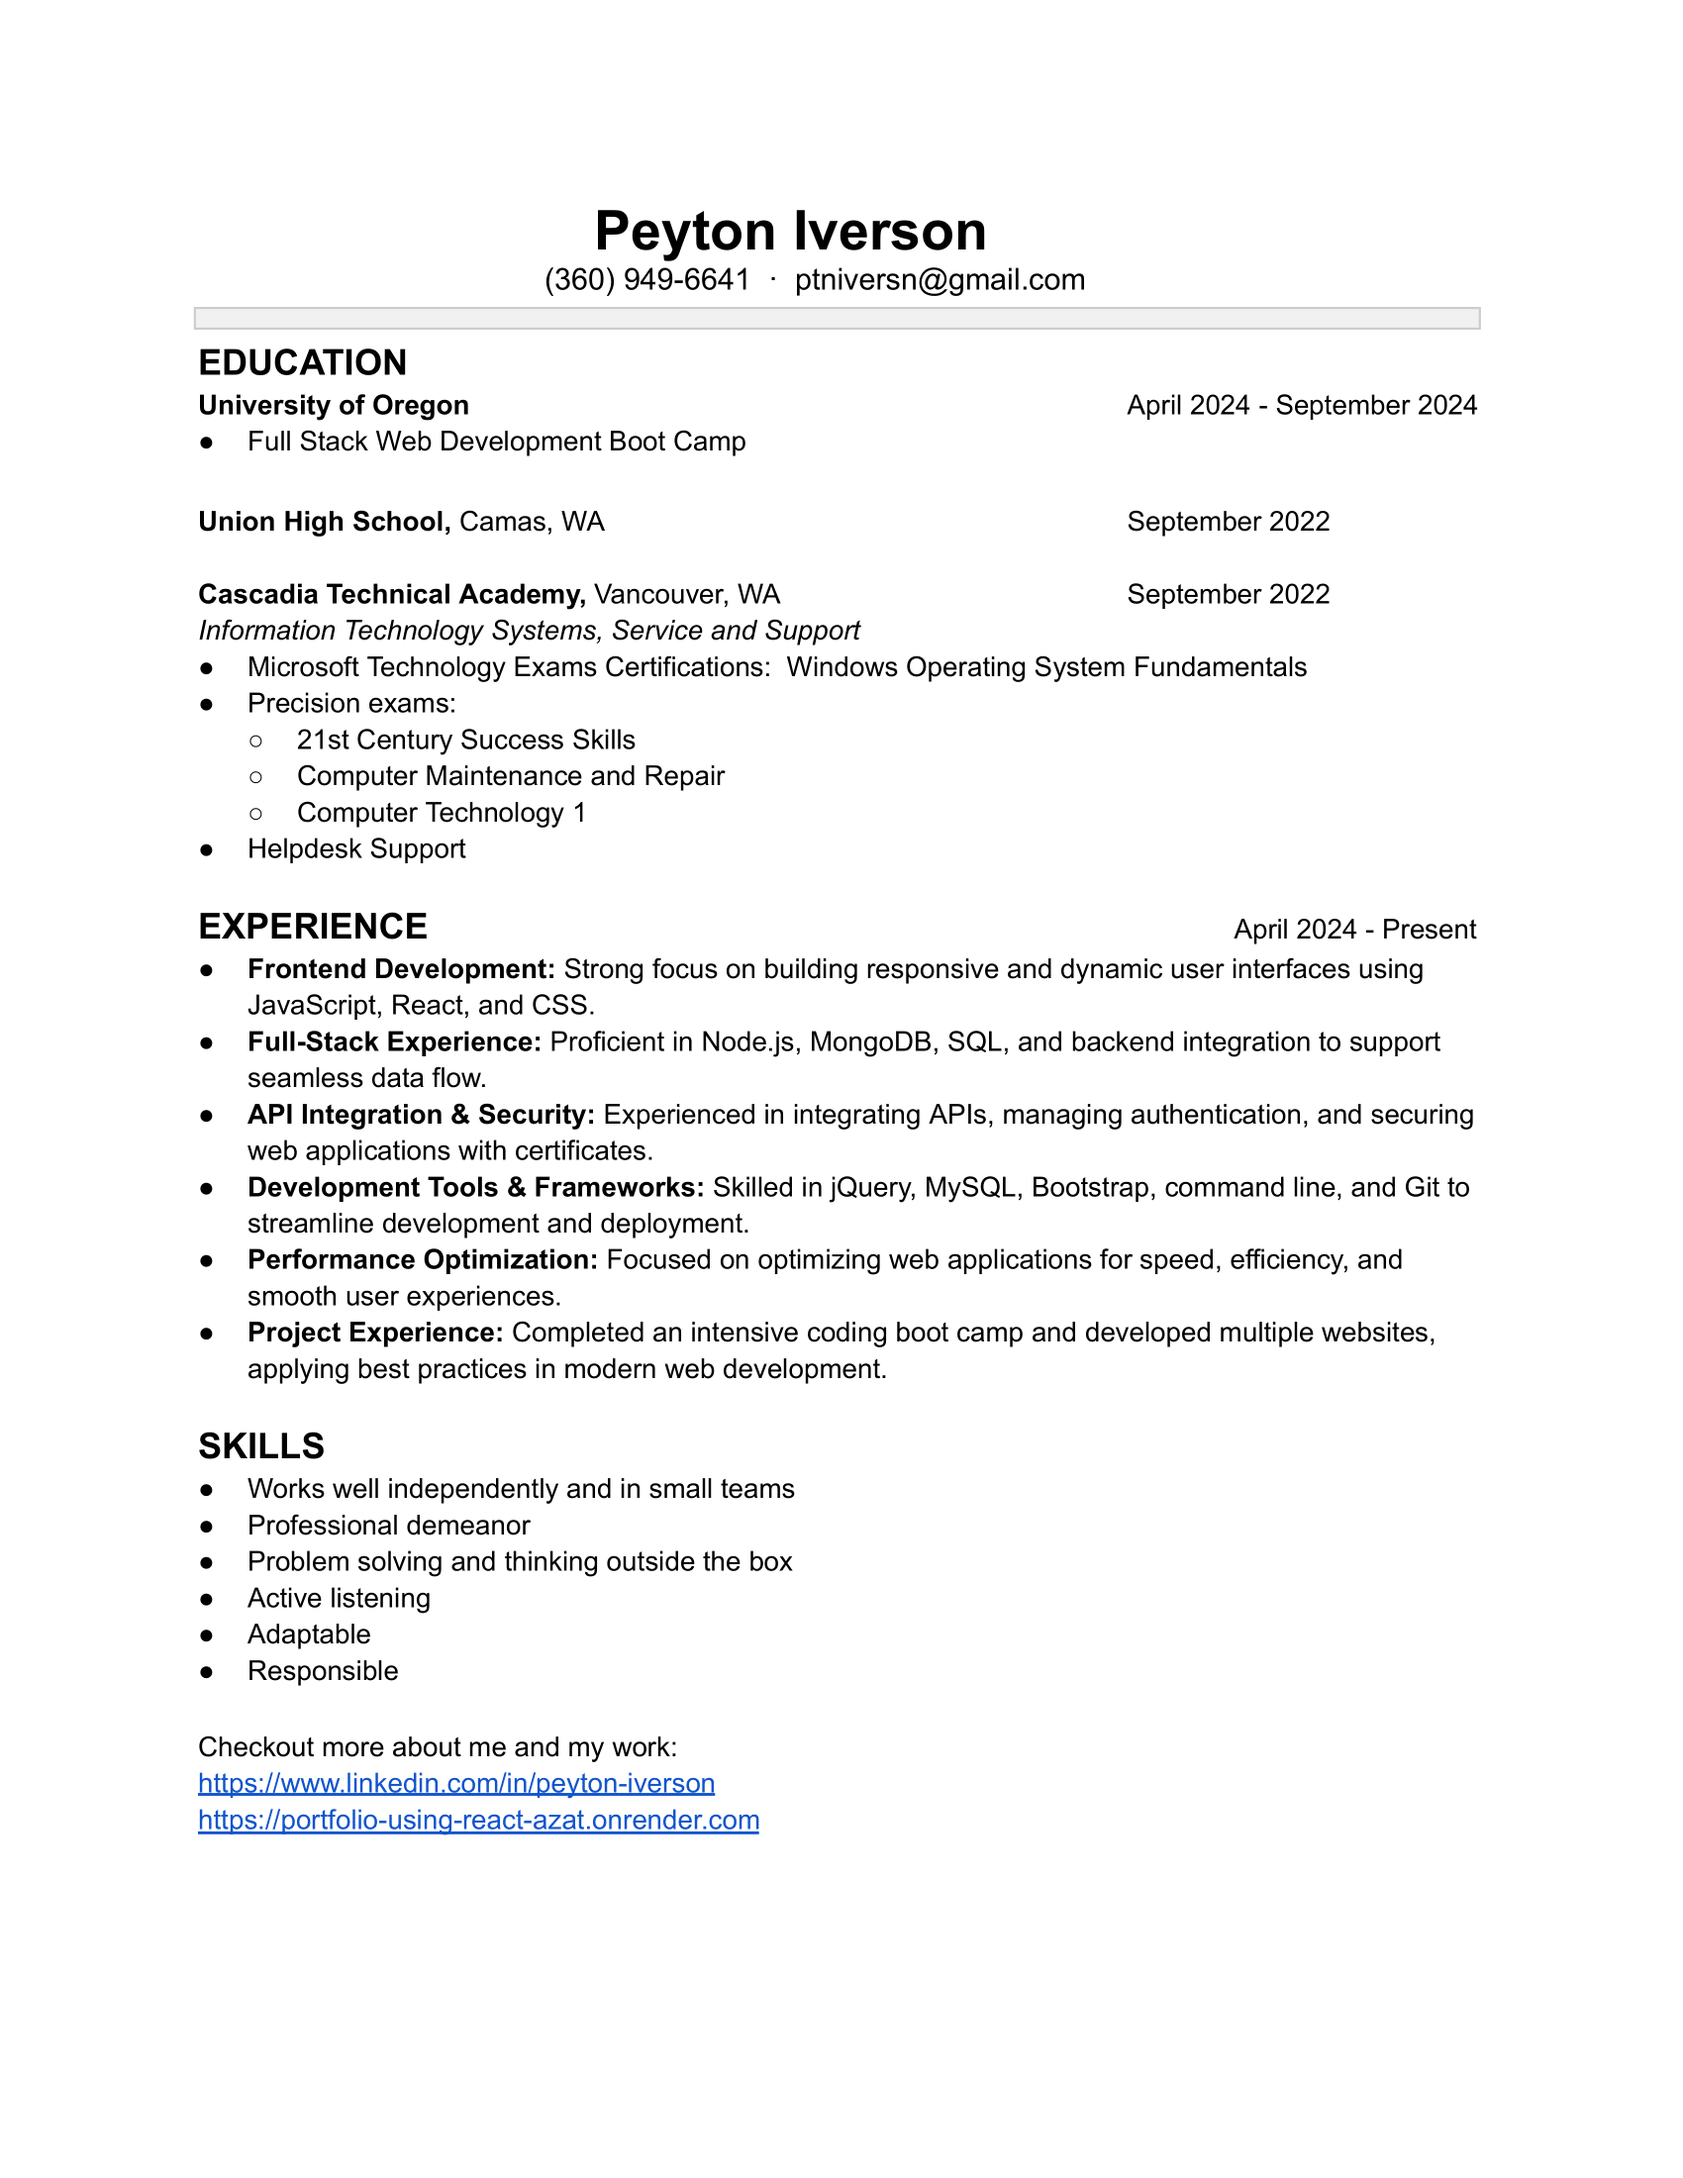
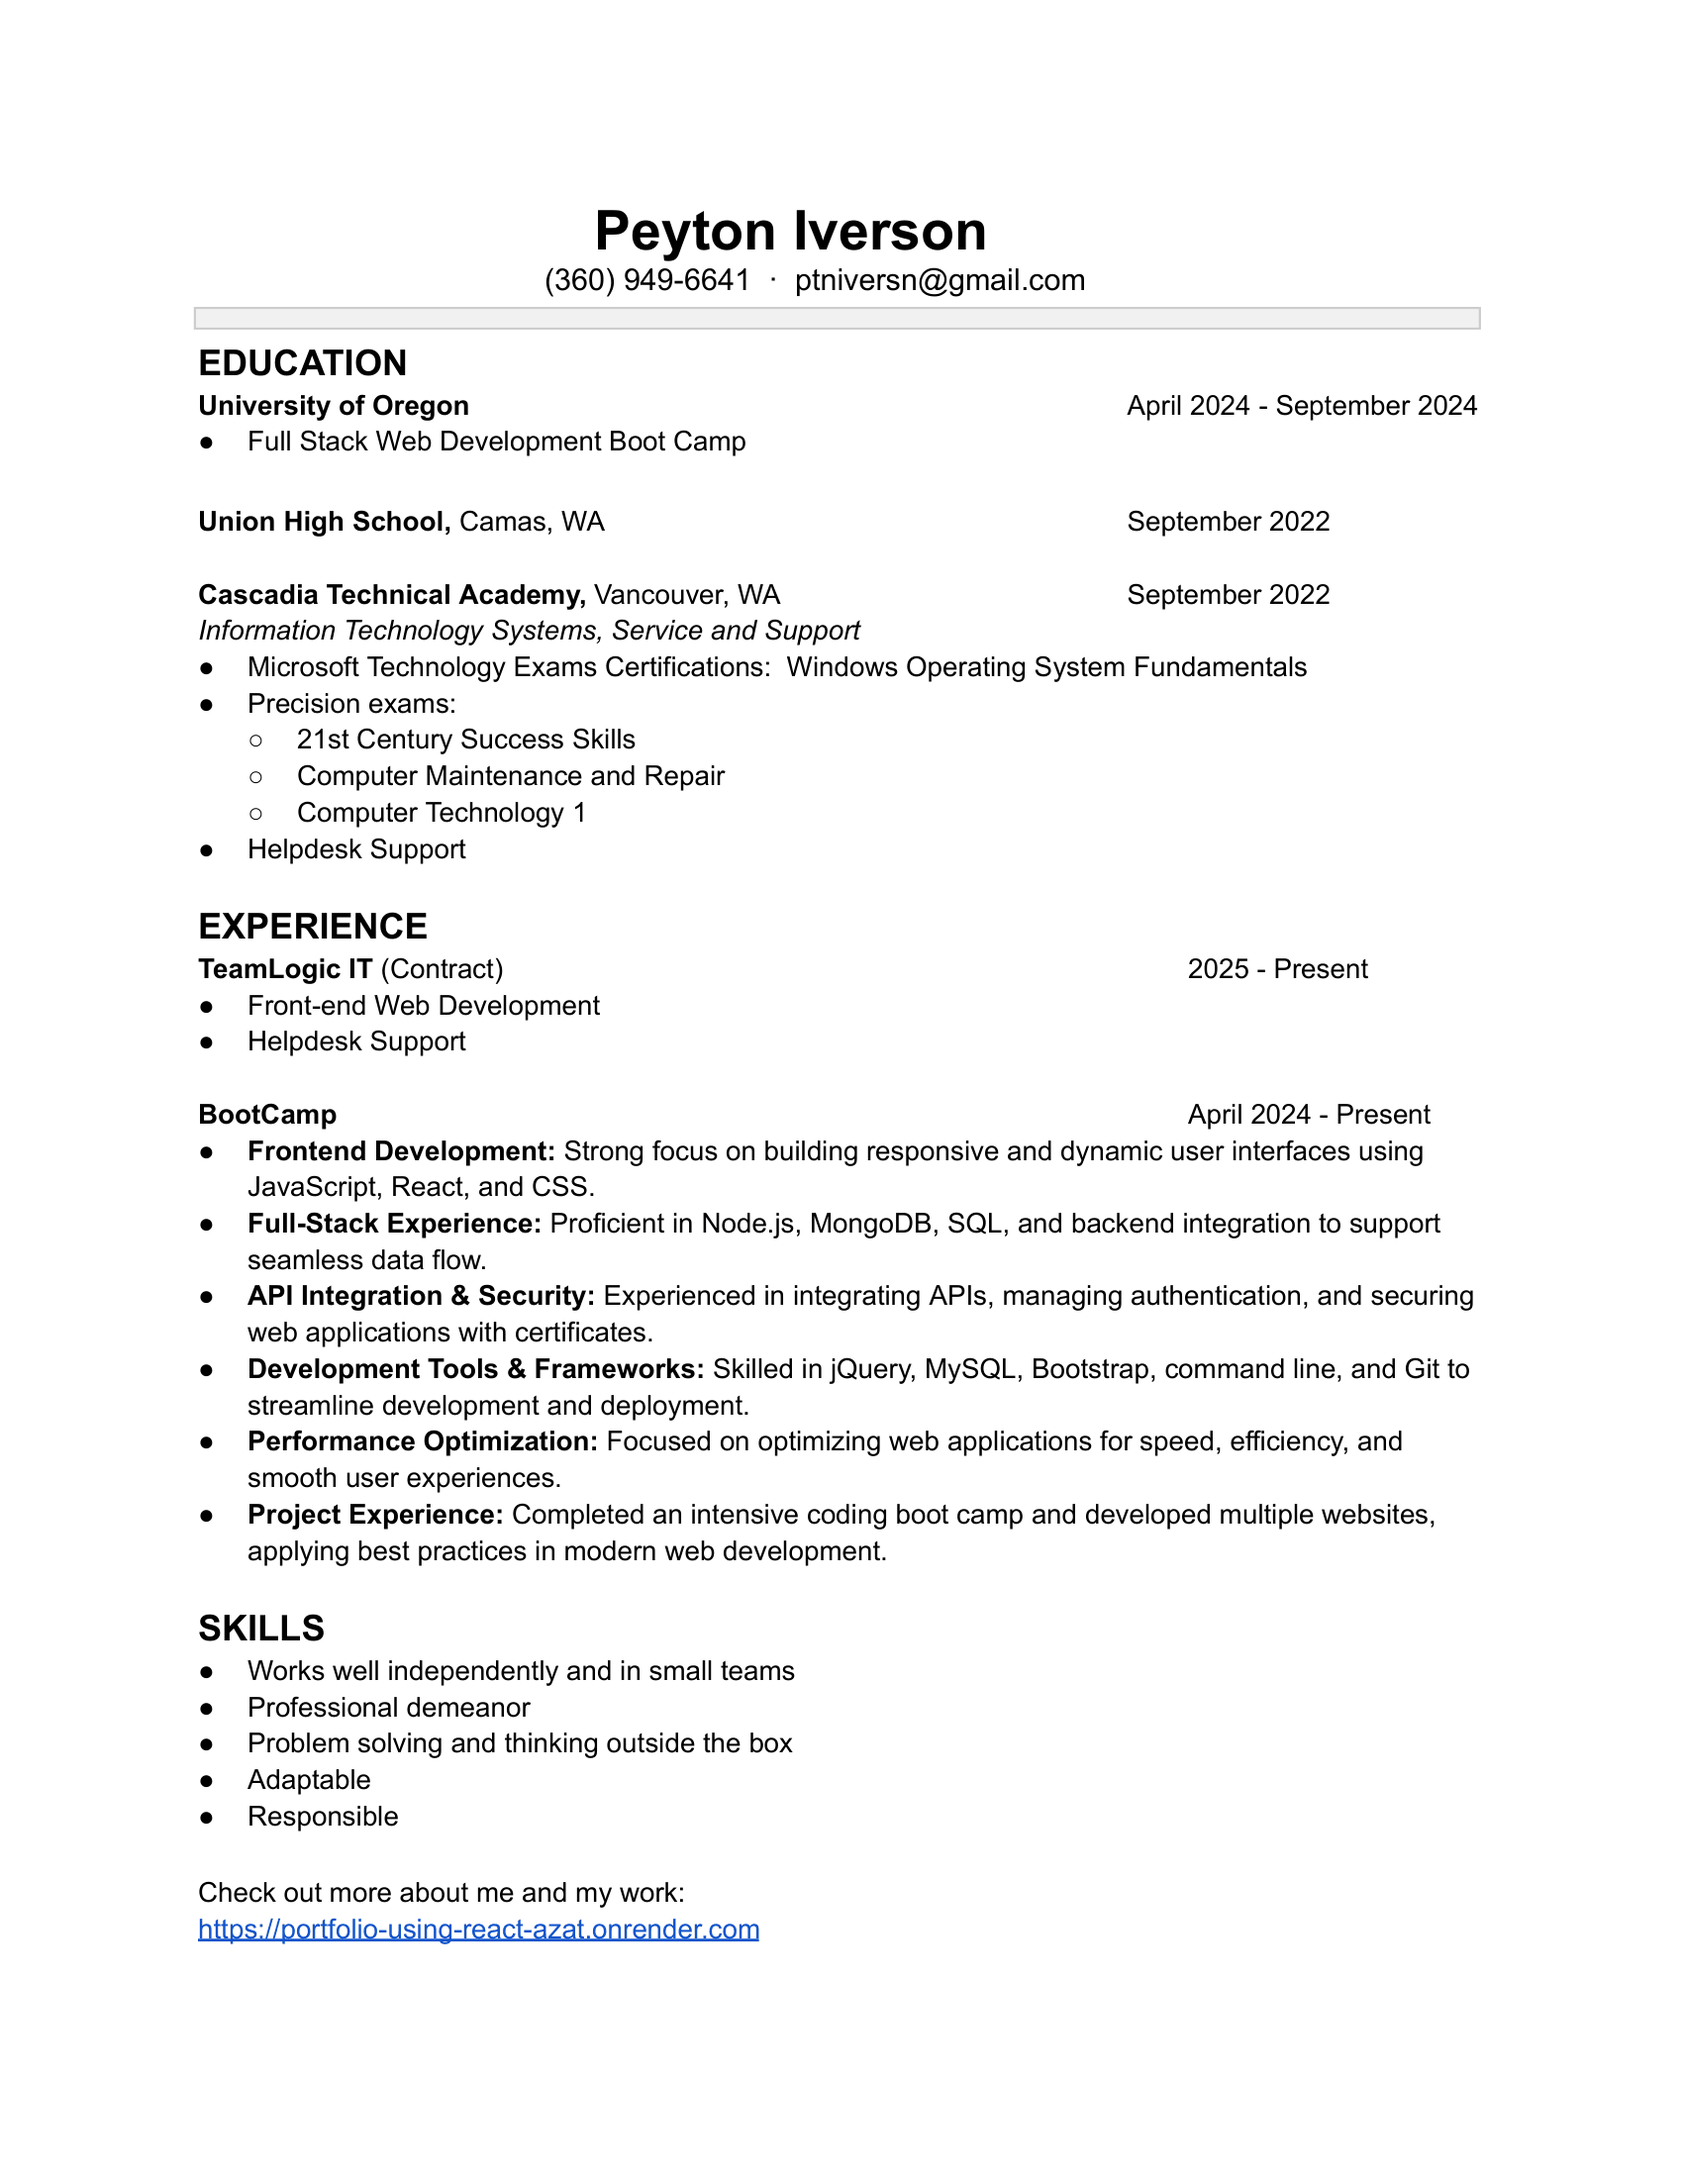
updated resume

Changed region(s): [[0.1247, 0.4018, 0.8729, 0.8964], [0.8418, 0.4018, 0.8729, 0.4327], [0.2182, 0.3091, 0.2494, 0.34]]

diff --git a/src/components/UI/ProjectData.jsx b/src/components/UI/ProjectData.jsx
@@ -1,6 +1,7 @@
 import Project1 from "../../assets/img3.png";
 import Weather from "../../assets/img2.png";
 import Techblog from "../../assets/img1.png";
+import RoofTopCat from "../../assets/img5.png";
 // import Parkfinder from "../../assets/img4.png";
 
 const projectsData = [
@@ -21,6 +22,12 @@ const projectsData = [
     image: Techblog,
     repoLink: "https://github.com/AceSpadee/Tech-Blog-website",
     liveLink: "https://tech-blog-website-775s.onrender.com",
+  },
+  {
+    title: "Rooftop-Cat",
+    image: RoofTopCat,
+    repoLink: "https://github.com/AceSpadee/ambient-loader",
+    liveLink: "https://ambient-loader.onrender.com",
   },
   // {
   //   title: "Park-Finder",
